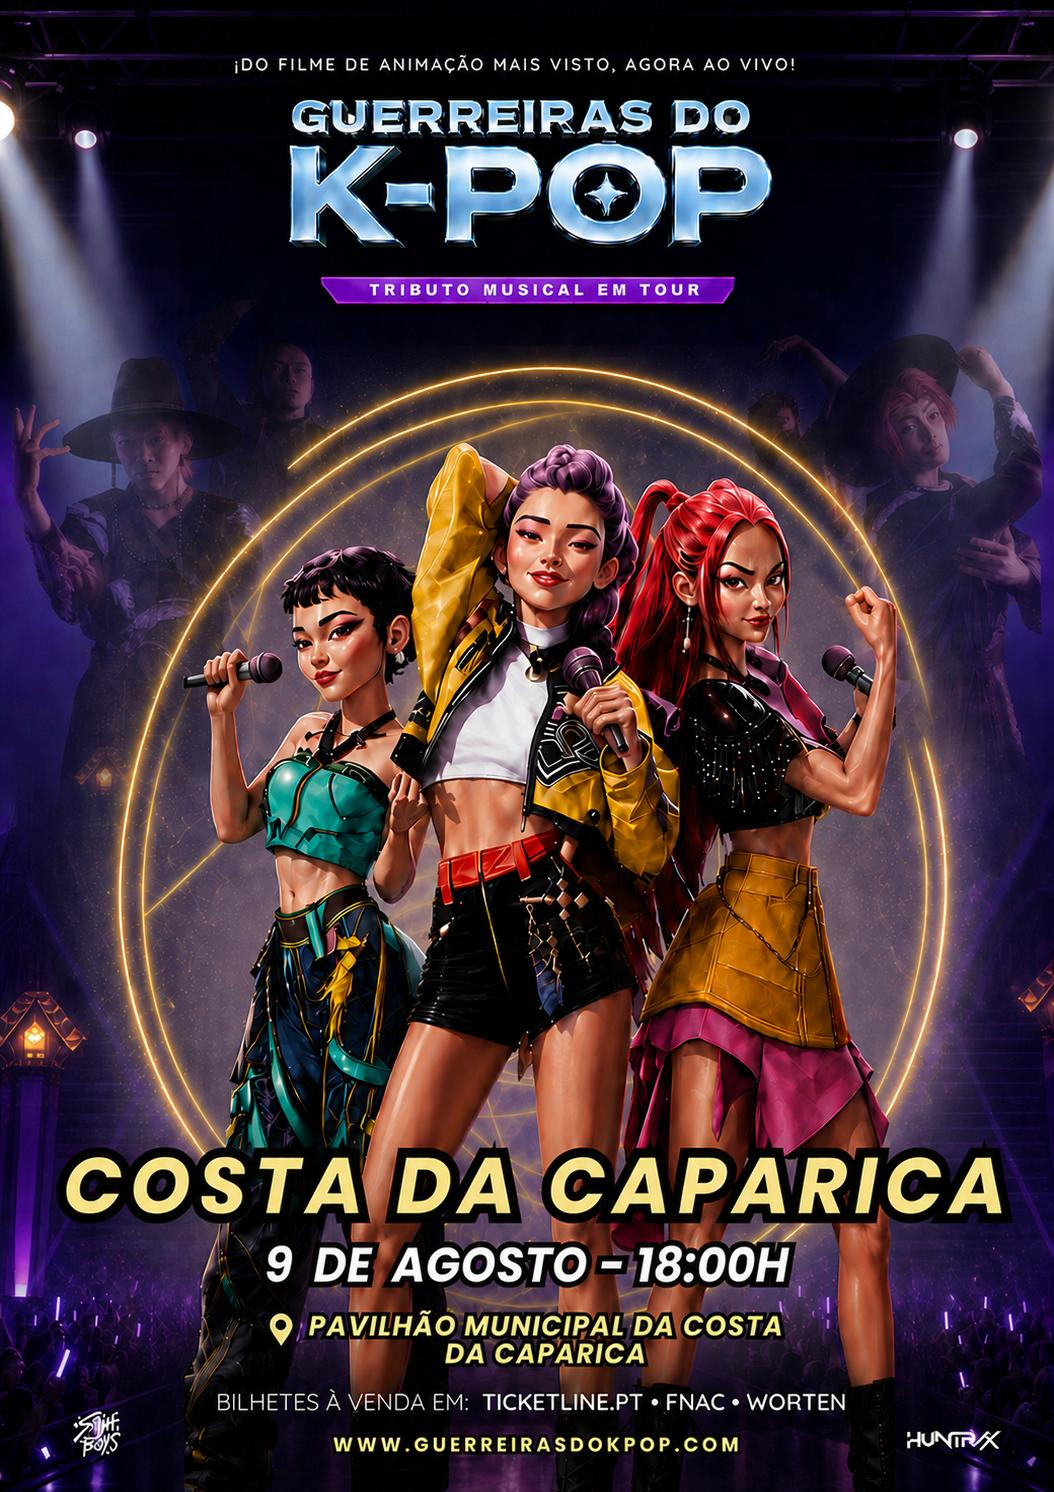
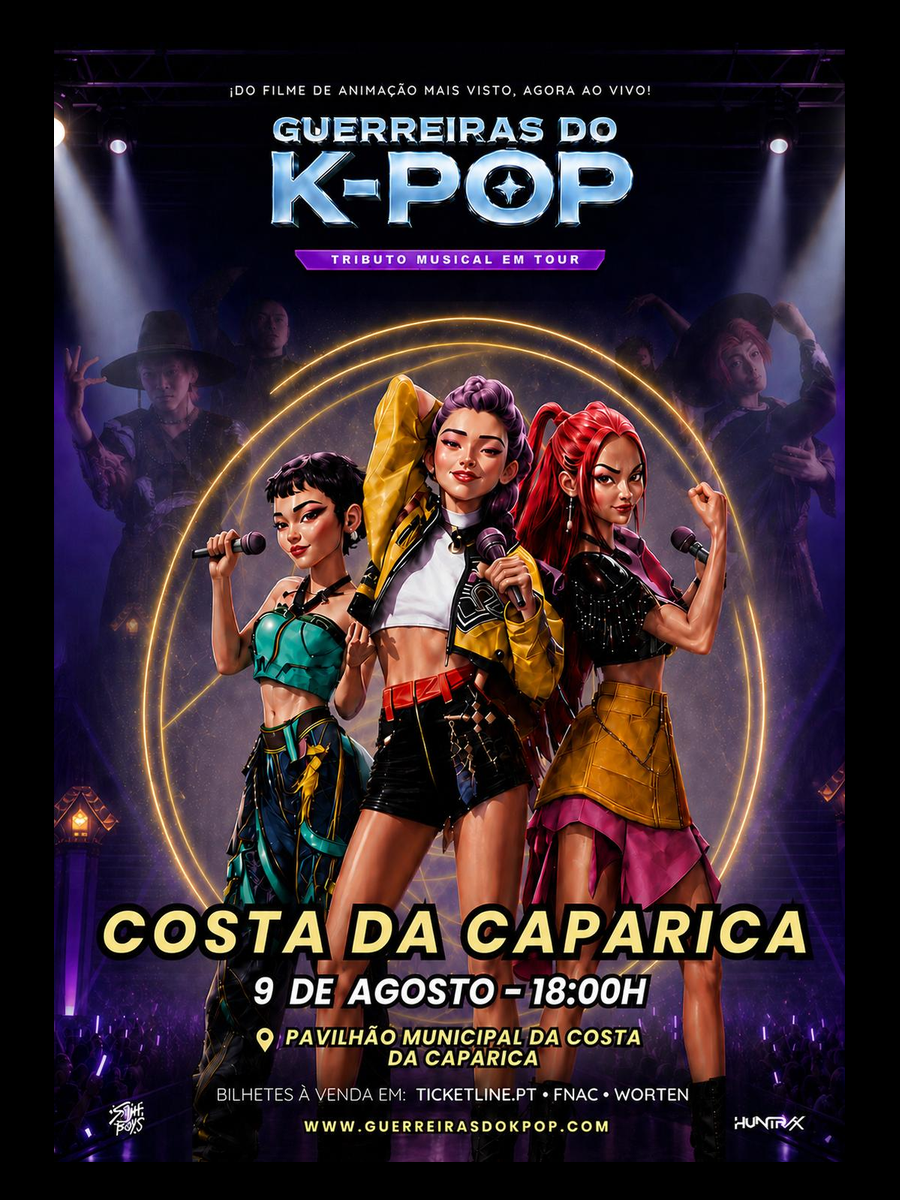
Cartazes Cascais + Caparica: conteudo completo (estilo Sesimbra)
Revertido para estado anterior + novas WebPs:
- CSS: voltou a aspect-ratio 3/4 + object-fit: cover (estado onde Sesimbra funcionava)
- WebPs Cascais + Caparica: geradas com conteudo COMPLETO + bordas pretas
  iguais ao Sesimbra (42px topo + 38px fundo)

Estrategia usada (analise avancada do Sesimbra):
- Sesimbra: 900x1200 com conteudo real de 900x1120 (bordas pretas 3.5%+3.2%)
- Cascais + Caparica: imagens originais 1054x1492 redimensionadas com
  'contain' para caber na area 900x1120, centradas horizontalmente,
  com bordas pretas identicas ao Sesimbra

Resultado:
- Os 3 cartazes tem MESMO tamanho (900x1200) e MESMO racio (3:4)
- Conteudo de todos aparece COMPLETO, sem cortes, sem zoom
- Aparencia visual identica em todos os 3
- Sesimbra NAO foi alterado

diff --git a/src/app/globals.css b/src/app/globals.css
@@ -4021,10 +4021,7 @@ html.light-mode .hero-bg-img-dark {
   /* sem cursor:pointer - agora o card não é link, só o botão */
 }
 
-/* ═══ Moldura base - leve e limpa ═══
-   ATUALIZAÇÃO: removido aspect-ratio 3/4 fixo para que cada cartaz
-   mantenha o seu rácio natural (igual ao Sesimbra — 766:1012 ≈ 1:1.32).
-   Cada cartaz fica com a sua própria altura proporcional, sem cortes. */
+/* ═══ Moldura base - leve e limpa ═══ */
 .cartaz-img-wrap {
   position: relative;
   overflow: hidden;
@@ -4032,7 +4029,7 @@ html.light-mode .hero-bg-img-dark {
   background: var(--deep);
   box-shadow: 0 12px 36px rgba(11,8,19,0.45);
   transition: box-shadow 0.5s ease;
-  /* Sem aspect-ratio fixo — a altura é definida pela imagem naturalmente */
+  aspect-ratio: 3 / 4; /* MESMO aspect-ratio para TODOS os cartazes */
 }
 
 /* Linha fina subtil sempre visível (todos iguais) */
@@ -4075,9 +4072,9 @@ html.light-mode .hero-bg-img-dark {
 
 .cartaz-img {
   width: 100%;
-  height: auto;
+  height: 100%;
   display: block;
-  object-fit: contain; /* Mostra a imagem completa sem cortes */
+  object-fit: cover;
   object-position: center top;
   transition: transform 0.8s cubic-bezier(0.16,1,0.3,1),
               filter 0.6s ease;
